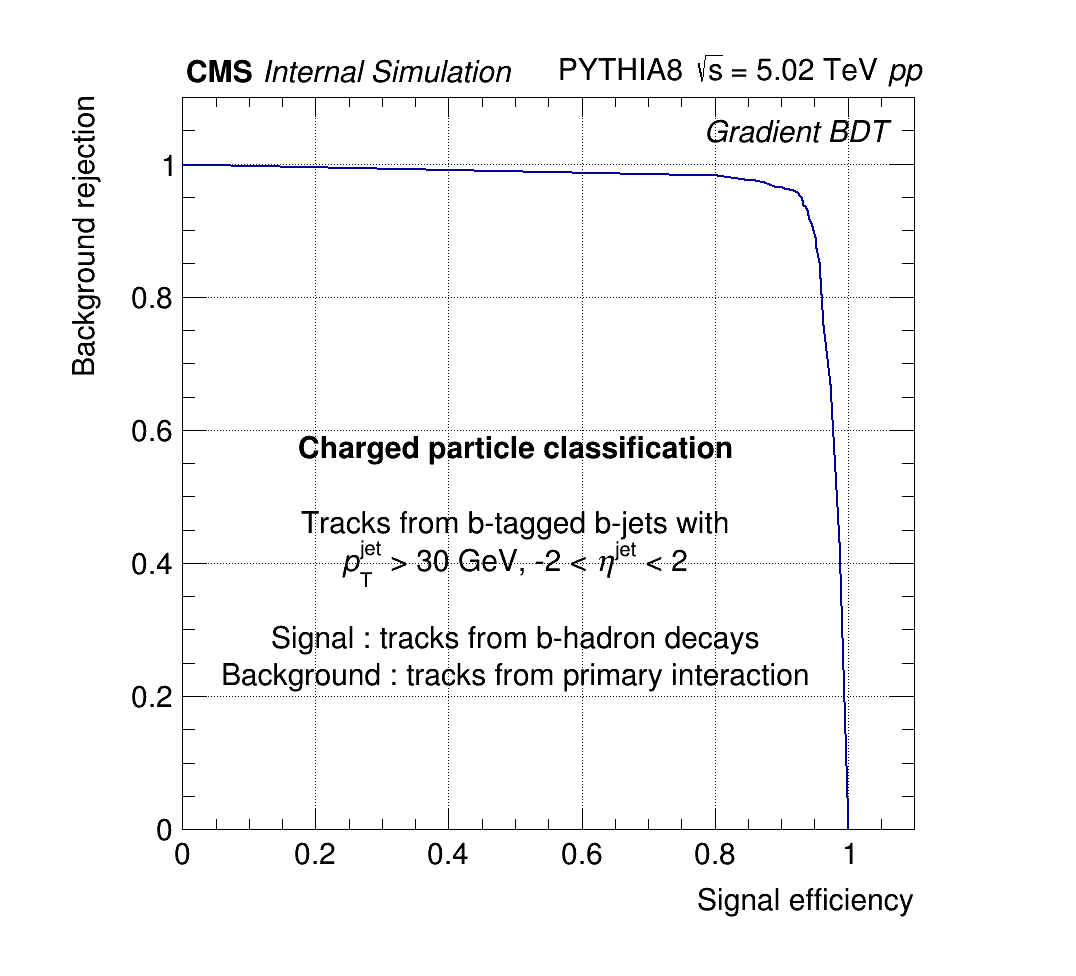
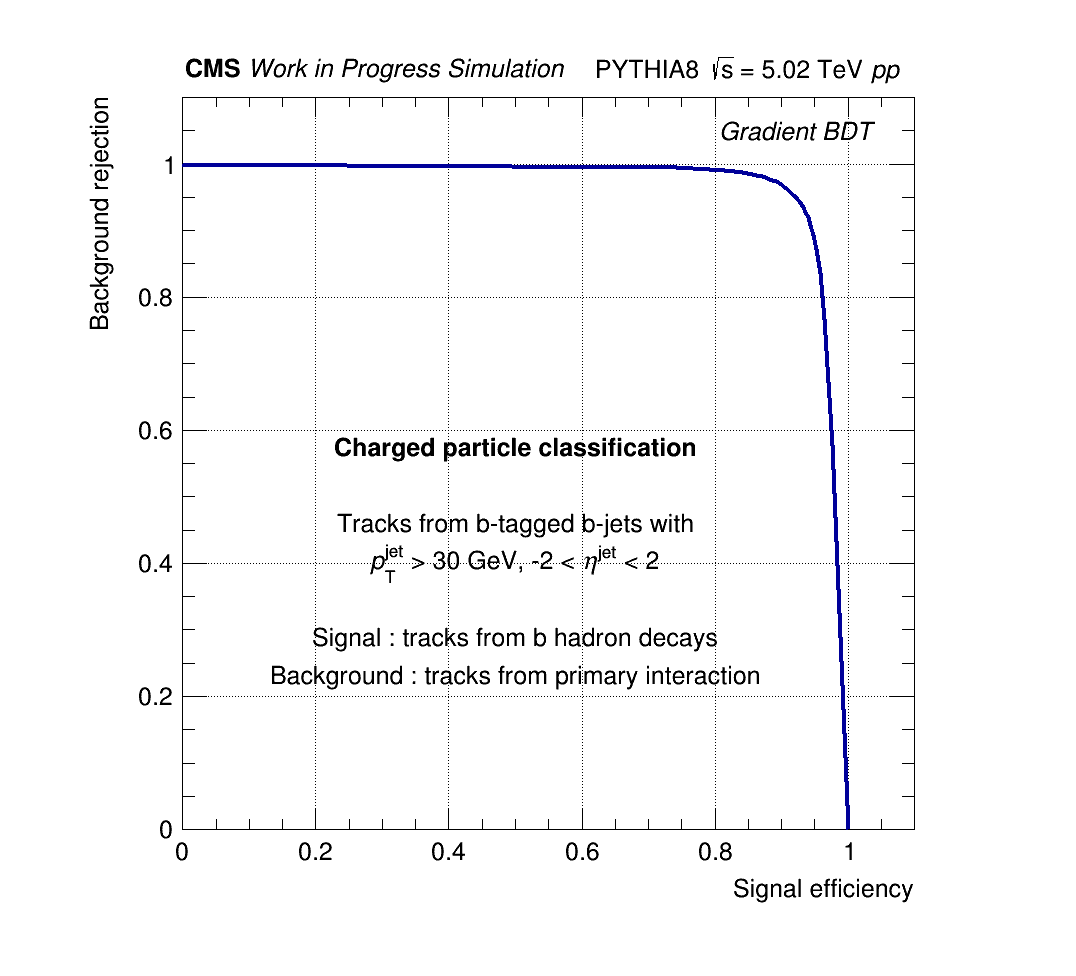
updated roc for poster

diff --git a/bdt_0_72_1/C106X/draw_ROC_TMVA.C b/bdt_0_72_1/C106X/draw_ROC_TMVA.C
@@ -2,8 +2,10 @@
 
 void draw_ROC_TMVA()
 {
+    Float_t font_size = 27.;
+    
     // TString label = "qcd_bjet";
-    TString label = "ttbar_highPU";
+    TString label = "qcd_bjet";
     TString finName = "./saved_models/" + label + "_roc.root";
     TFile *fin = new TFile (finName);
 
@@ -19,7 +21,7 @@ void draw_ROC_TMVA()
 
     TGraph *gr_roc = new TGraph(nbins);
     gr_roc->SetLineColor(kBlue+2);
-    gr_roc->SetLineWidth(2);
+    gr_roc->SetLineWidth(4);
     gr_roc->GetXaxis()->SetTitle("Signal efficiency");
     gr_roc->GetYaxis()->SetTitle("Background rejection");
 
@@ -37,7 +39,9 @@ void draw_ROC_TMVA()
         //           << std::endl;
         gr_roc->SetPoint(ibin - 1, sig_eff, bkg_rej);
 
-        // if (sig_eff > 0.93) std::cout << "eff: " << sig_eff << ", bkg rej: " << bkg_rej << std::endl;
+        float purity = sig_pass / (sig_pass + bkg_pass);
+
+        if (sig_eff > 0.92) std::cout << "eff: " << sig_eff << ", bkg rej: " << bkg_rej << ", pur: " << purity << std::endl;
     }
     gr_roc->SetPoint(nbins, 0., 1.); // for discr > 1
 
@@ -59,26 +63,26 @@ void draw_ROC_TMVA()
     // SetRealAspectRatio(c_discr);
     // c_discr->SetFixedAspectRatio();
 
-    TPaveText *info_top_left = new TPaveText(0.0, 1.1, 0.35, 1.15, "nb ndc");
-    info_top_left->SetTextSize(20);
+    TPaveText *info_top_left = new TPaveText(0.0, 1.1, 0.58, 1.18, "nb ndc");
+    info_top_left->SetTextSize(font_size);
     info_top_left->SetFillStyle(0);
     info_top_left->SetLineWidth(0);
-    info_top_left->AddText("#bf{CMS} #it{Simulation Preliminary}");
+    info_top_left->AddText("#bf{CMS} #it{Work in Progress Simulation}");
 
-    TPaveText *info_top_right = new TPaveText(0.75, 1.1, 1.1, 1.15, "nb ndc");
-    info_top_right->SetTextSize(20);
+    TPaveText *info_top_right = new TPaveText(0.6, 1.1, 1.1, 1.18, "nb ndc");
+    info_top_right->SetTextSize(font_size);
     info_top_right->SetFillStyle(0);
     info_top_right->SetLineWidth(0);
-    info_top_right->AddText("PYTHIA8 #sqrt{s} = 13 TeV #it{pp}");
+    info_top_right->AddText("PYTHIA8 #sqrt{s} = 5.02 TeV #it{pp}");
 
-    TPaveText *info_bdt = new TPaveText(0.8, 1., 1.1, 1.1, "nb ndc");
-    info_bdt->SetTextSize(20);
+    TPaveText *info_bdt = new TPaveText(0.75, 1., 1.1, 1.1, "nb ndc");
+    info_bdt->SetTextSize(font_size);
     info_bdt->SetFillStyle(0);
     info_bdt->SetLineWidth(0);
     info_bdt->AddText("#it{Gradient BDT}");
 
-    TPaveText *info_tracks = new TPaveText(0.1, 0.4, 0.7, 0.6, "nb ndc");
-    info_tracks->SetTextSize(20);
+    TPaveText *info_tracks = new TPaveText(0.1, 0.2, 0.9, 0.6, "nb ndc");
+    info_tracks->SetTextSize(font_size);
     info_tracks->SetFillStyle(0);
     info_tracks->SetLineWidth(0);
     info_tracks->AddText("#bf{Charged particle classification}");
@@ -86,10 +90,17 @@ void draw_ROC_TMVA()
     info_tracks->AddText("Tracks from b-tagged b-jets with");
     info_tracks->AddText("#it{p}_{T}^{jet} > 30 GeV, -2 < #it{#eta}^{jet} < 2");
     info_tracks->AddText("");
-    info_tracks->AddText("Signal : tracks from b-hadron decays");
+    info_tracks->AddText("Signal : tracks from b hadron decays");
     info_tracks->AddText("Background : tracks from primary interaction");
     // info_tracks->AddText("");
     // info_tracks->AddText("Gradient BDT");
+
+    // std::cout << gr_roc->GetXaxis()->GetLabelSize() << std::endl;
+
+    gr_roc->GetXaxis()->SetLabelSize(font_size);
+    gr_roc->GetYaxis()->SetLabelSize(font_size);
+    gr_roc->GetXaxis()->SetTitleSize(font_size);
+    gr_roc->GetYaxis()->SetTitleSize(font_size);
 
     TCanvas *c_roc = new TCanvas("c_roc", "", 1200, 1000);
     gr_roc->Draw("al");
